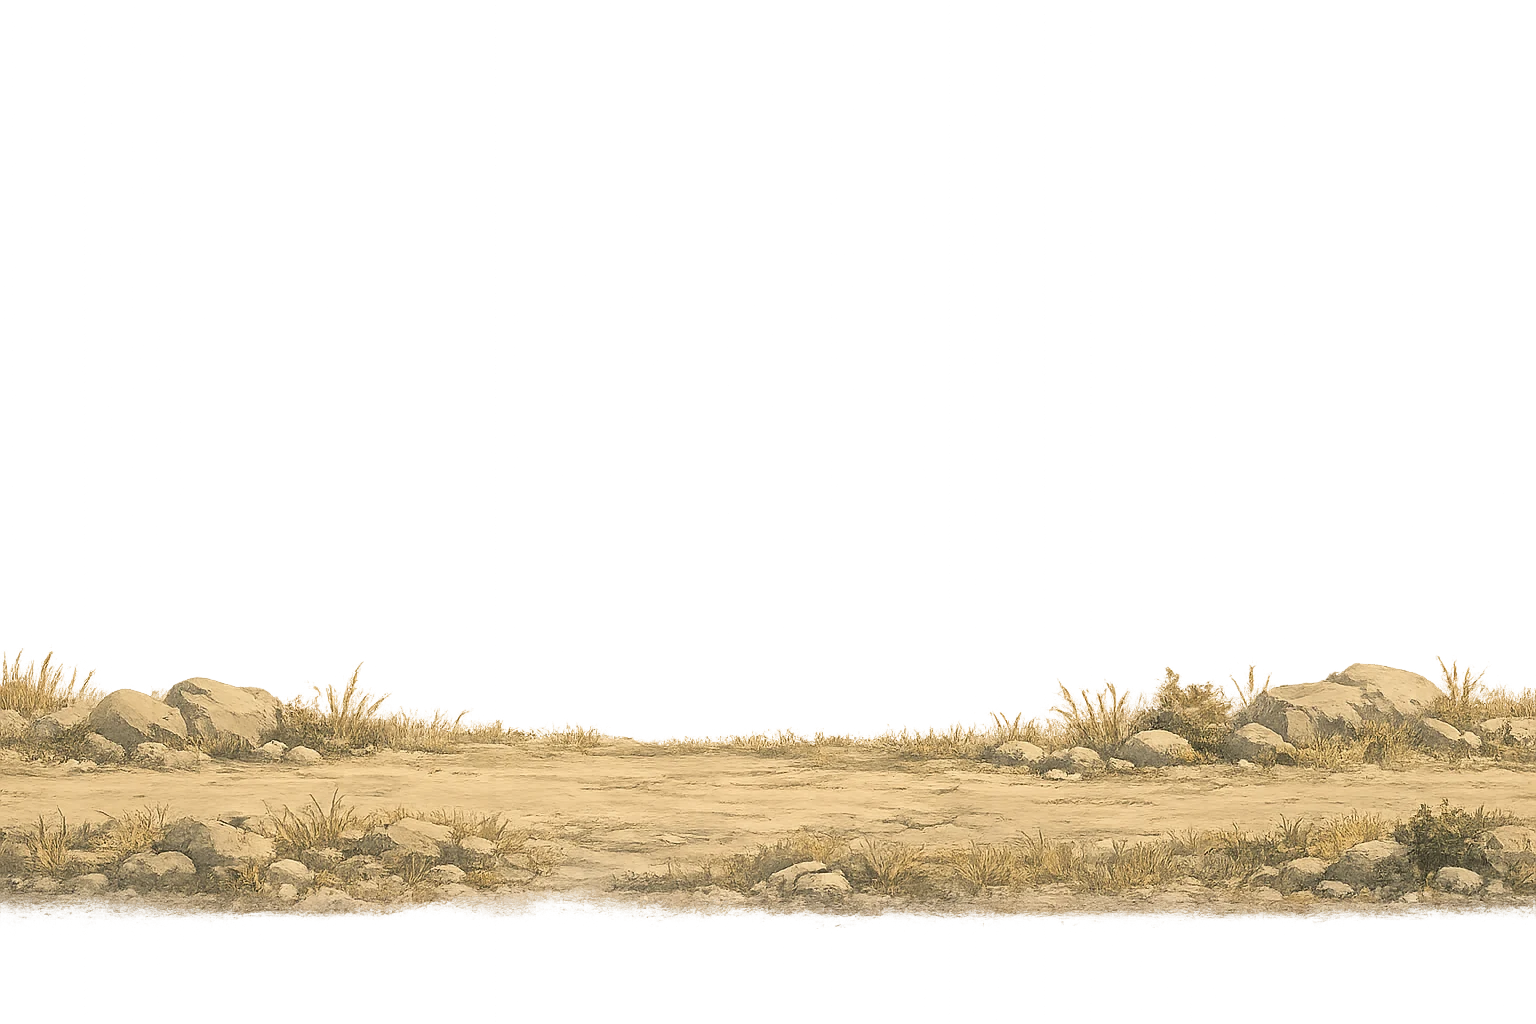
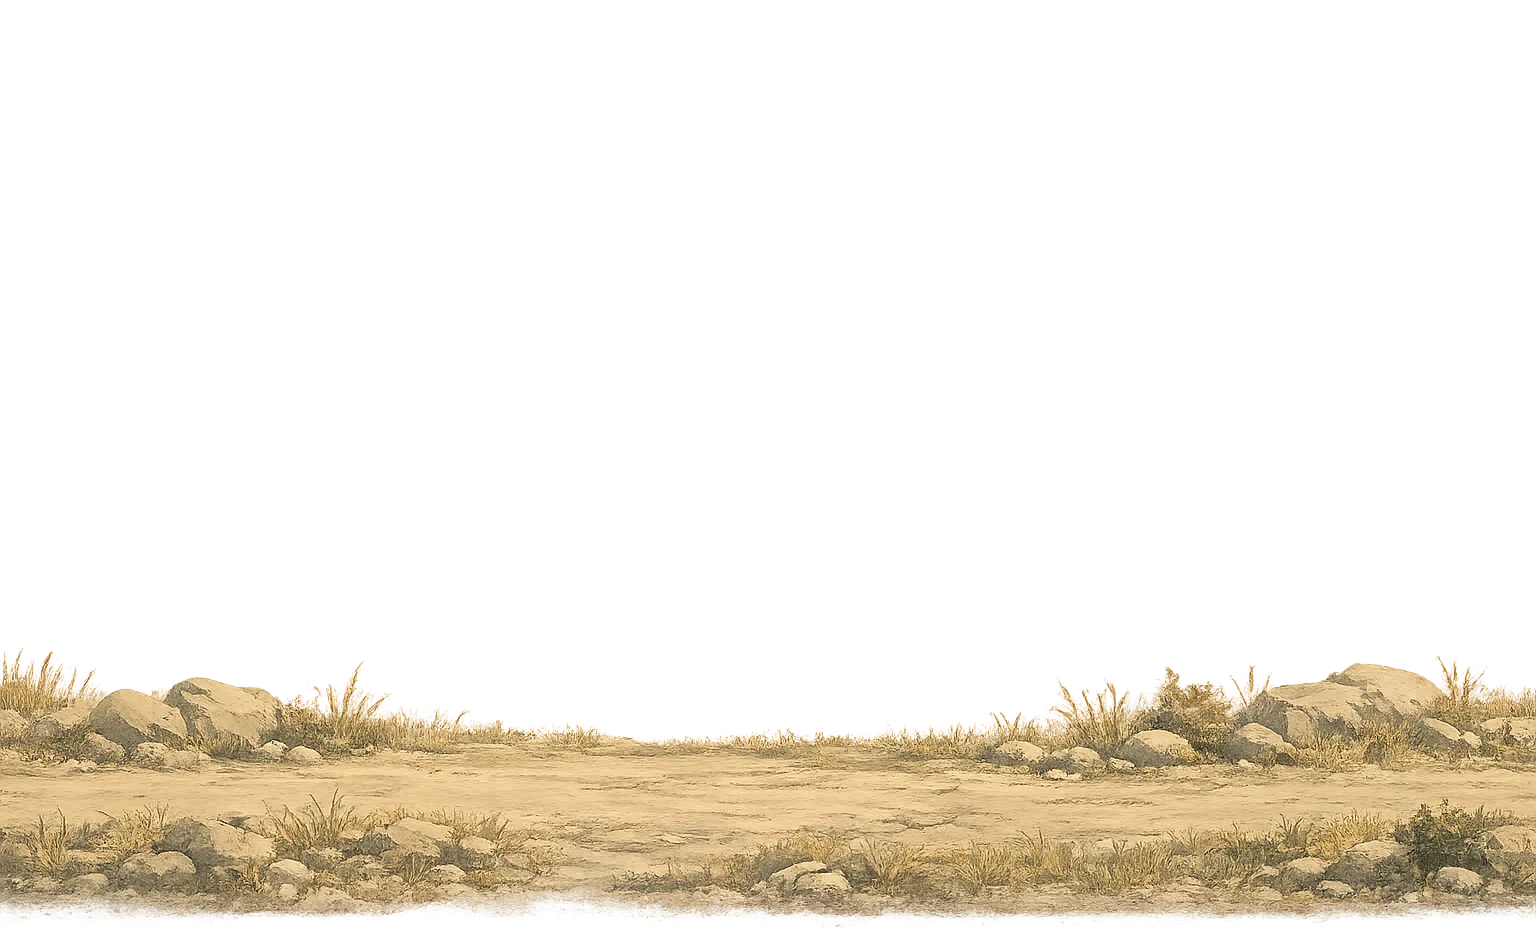
Fix found-coin timer reset, drop mid layer, crop near baseline

Changed region(s): [[0.0, 0.623, 1.0, 0.9968]]

diff --git a/src/screens/HuntSideScroller.jsx b/src/screens/HuntSideScroller.jsx
@@ -561,10 +561,19 @@ function ProceduralBackdrop({ scrollX, isDark }) {
  * (two full spins) so the coin ends right-side-up regardless of which
  * emblem it carries — important since emblems have a fixed "up". */
 function FoundCoinEmerge({ coin, onDone }) {
+  // Pin onDone in a ref so it doesn't appear in the effect's dependency
+  // list. HuntSideScroller re-renders ~60 times/sec via the RAF tick, which
+  // produces a fresh onDone reference every frame. If we used onDone in
+  // deps, the setTimeout would be cleared and re-created every frame and
+  // the 1400ms timer would NEVER fire — leaving the player stuck on the
+  // "found" phase forever. The ref pattern keeps the latest onDone callable
+  // while running the timer setup exactly once on mount.
+  const onDoneRef = useRef(onDone);
+  useEffect(() => { onDoneRef.current = onDone; }, [onDone]);
   useEffect(() => {
-    const t = setTimeout(onDone, 1400);
+    const t = setTimeout(() => onDoneRef.current?.(), 1400);
     return () => clearTimeout(t);
-  }, [onDone]);
+  }, []); // run once on mount; do NOT add onDone here
   return (
     <div
       className="absolute pointer-events-none"

diff --git a/src/lib/data.js b/src/lib/data.js
@@ -255,13 +255,13 @@ export const LOCATIONS = [
     name: "The Field",
     desc: "Tall grass, distant mountains. The default stretch of earth.",
     unlockShovelLevel: 1,
-    // Four-layer parallax. Each layer is a webp at /public/locations/field/.
-    // scrollMul: 0 = pinned to sky, 1.0 = moves with the foreground world.
-    // Layers are rendered deepest-first; transparent PNGs composite naturally.
+    // Three-layer parallax. Sky covers everything; far is a faint silhouette;
+    // near is the foreground the player runs across. The previous mid layer
+    // had a hard top edge that clashed with the sky's painted haze, so it's
+    // been dropped — the sky's own mid-distance gradient sells the depth.
     bgLayers: [
       { path: "/locations/field/sky.webp",  scrollMul: 0    }, // full-coverage sky, static
       { path: "/locations/field/far.webp",  scrollMul: 0.12 }, // distant mountain/ruin silhouette
-      { path: "/locations/field/mid.webp",  scrollMul: 0.40 }, // cypress trees, temple ruins
       { path: "/locations/field/near.webp", scrollMul: 1.0  }, // foreground dirt, rocks, grass
     ],
     // scrollSpeed unit: VIEWPORT-FRACTIONS per second (NOT px/sec — the